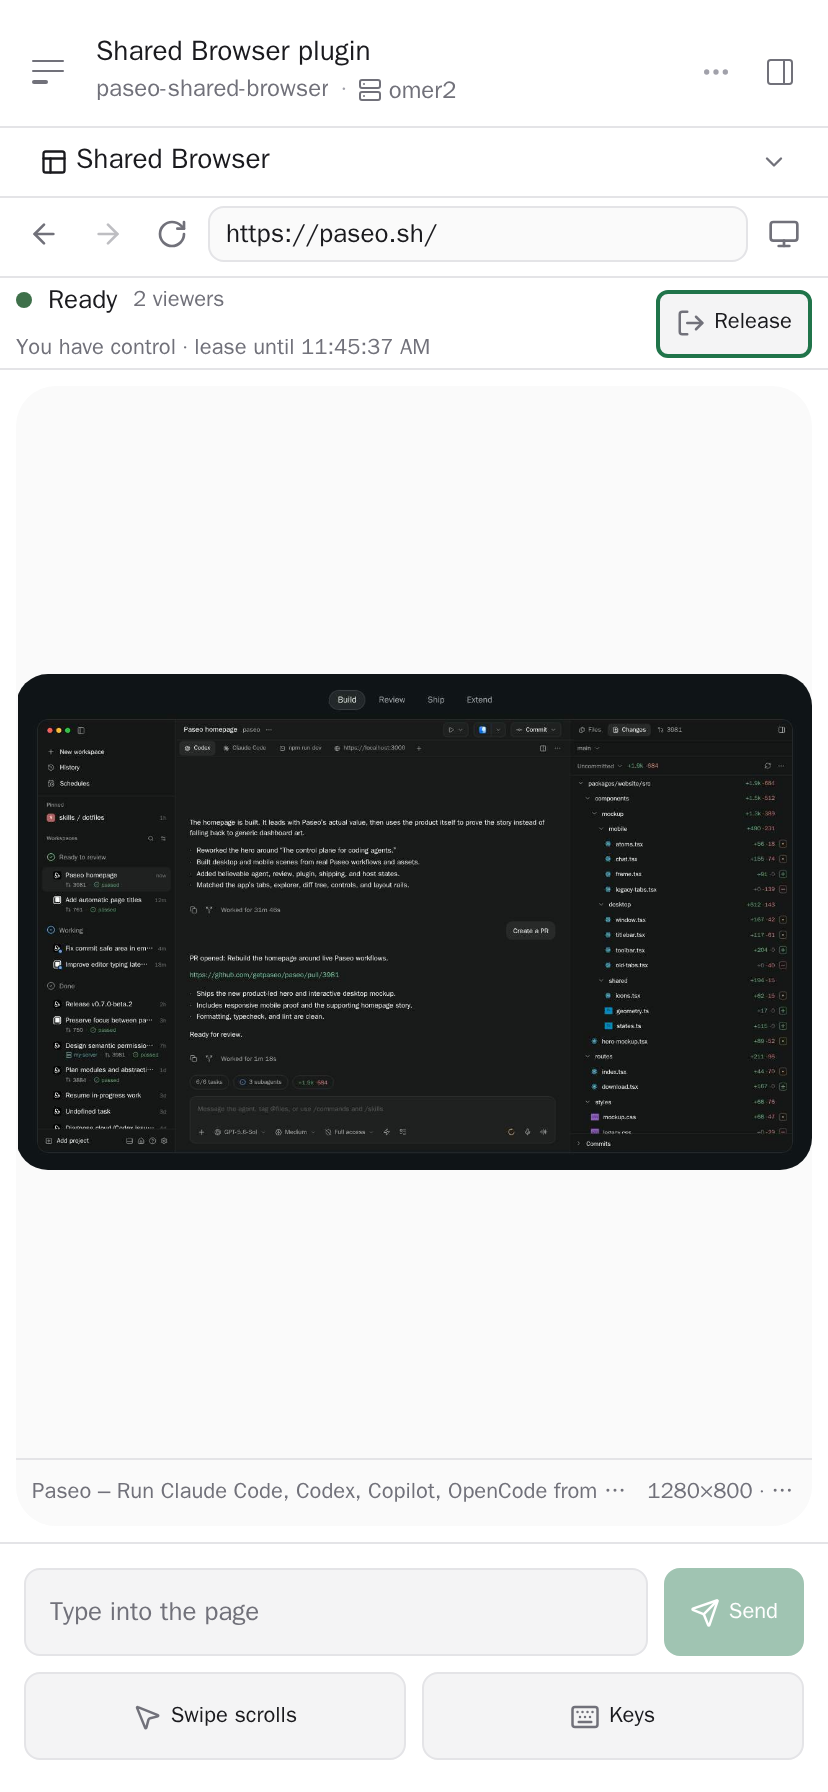
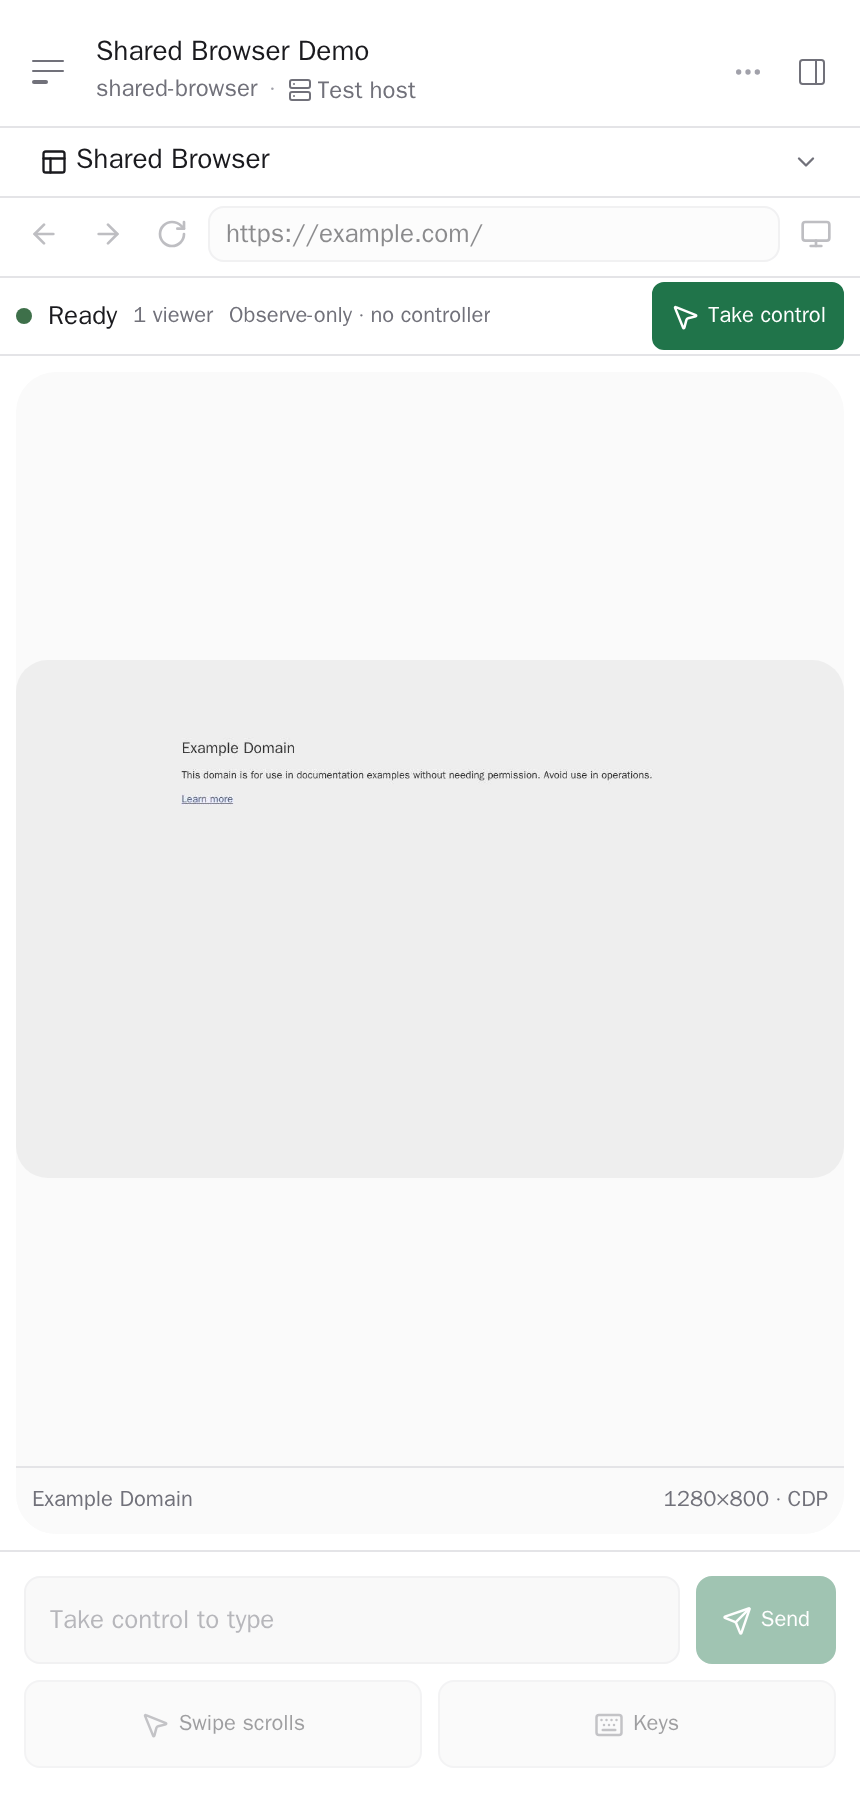
docs: refresh plugin screenshots (#125)

diff --git a/README.md b/README.md
@@ -12,13 +12,17 @@ input.
 
 ## Screenshots
 
+Both PNGs show the same isolated Chromium session from a dedicated Paseo test daemon. They were
+captured at 2× pixel density after browser DevTools verified the rendered page contained no private
+organization names.
+
 ### Wide desktop
 
-![Shared Browser showing the same live Paseo page to two viewers on desktop](docs/images/shared-browser-wide.png)
+![Shared Browser showing the same live Paseo page to two viewers on desktop](https://raw.githubusercontent.com/omercnet/paseo-plugins/main/paseo-shared-browser/docs/images/shared-browser-wide.png)
 
 ### Compact client
 
-![Shared Browser controls and the same canonical browser viewport on a compact client](docs/images/shared-browser-compact.png)
+![Shared Browser controls and the same canonical browser viewport on a compact client](https://raw.githubusercontent.com/omercnet/paseo-plugins/main/paseo-shared-browser/docs/images/shared-browser-compact.png)
 
 ## Runtime model
 
